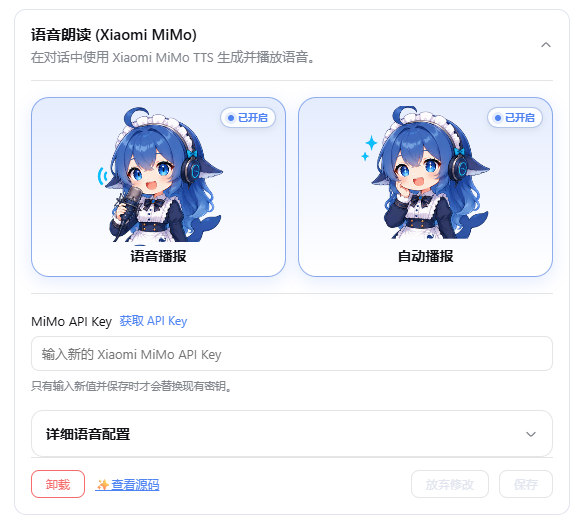
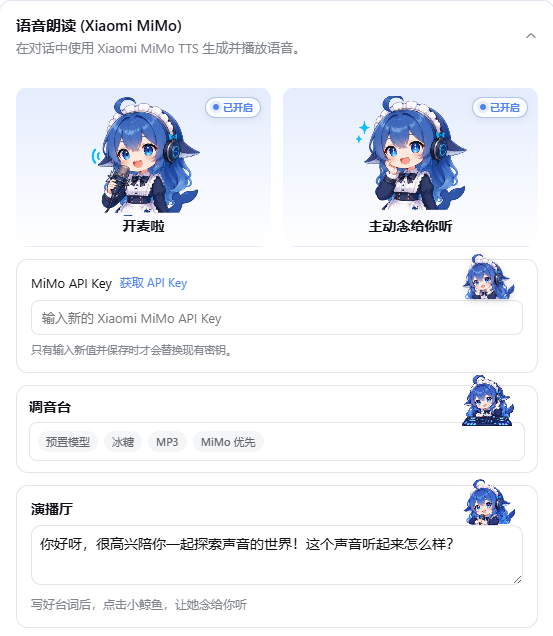
✨ feat: 添加三方插件联动监控console，更新设置页截图

diff --git a/src/index.ts b/src/index.ts
@@ -19,6 +19,8 @@ const USER_AGENT = typeof packageJson.version === 'string'
 const PACKAGE_NAME = 'dsh-xiaomi-tts'
 const WEB_PROFILE_NAME = 'web'
 const NPM_LATEST_URL = 'https://registry.npmjs.org/dsh-xiaomi-tts/latest'
+const STREAM_HOST_LOG = '[MiMoTTS Host]'
+let nextHostStreamRequestId = 1
 
 /** Cordis plugin identifier. */
 export const name = 'xiaomi-mimo-tts'
@@ -786,7 +788,10 @@ export function apply(ctx: Context, config: Config): void {
     kind: 'exact',
     path: TTS_STREAM_ROUTE,
     async handler(req, res) {
+      const requestId = nextHostStreamRequestId++
+      console.info(STREAM_HOST_LOG, `[请求 ${requestId}] 收到流式合成请求`, { method: req.method, path: TTS_STREAM_ROUTE })
       if (req.method !== 'POST') {
+        console.warn(STREAM_HOST_LOG, `[请求 ${requestId}] 拒绝：仅支持 POST`)
         res.setHeader('allow', 'POST')
         json(res, 405, { error: 'method-not-allowed' })
         return
@@ -796,6 +801,7 @@ export function apply(ctx: Context, config: Config): void {
       try {
         body = await readJsonBody(req, MAX_REQUEST_BODY_BYTES) as SynthesizeBody
       } catch (error) {
+        console.error(STREAM_HOST_LOG, `[请求 ${requestId}] 请求体解析失败`, error)
         json(res, error instanceof Error && error.message === 'request-body-too-large' ? 413 : 400, {
           error: error instanceof Error && error.message === 'request-body-too-large'
             ? 'request-body-too-large'
@@ -806,19 +812,31 @@ export function apply(ctx: Context, config: Config): void {
 
       const text = typeof body.text === 'string' ? prepareTtsText(body.text) : ''
       const options = synthesisOptions(current(), body)
+      console.info(STREAM_HOST_LOG, `[请求 ${requestId}] 请求参数已解析`, {
+        text,
+        textLength: text.length,
+        model: upstreamModel(options),
+        voice: options.voice,
+        apiKeyConfigured: options.apiKey.trim().length > 0,
+        requestTimeoutMs: options.requestTimeoutMs,
+      })
       if (text.length === 0) {
+        console.warn(STREAM_HOST_LOG, `[请求 ${requestId}] 拒绝：文本为空`)
         json(res, 400, { error: 'text-required' })
         return
       }
       if (text.length > options.maxTextLength) {
+        console.warn(STREAM_HOST_LOG, `[请求 ${requestId}] 拒绝：文本过长`, { textLength: text.length, maxTextLength: options.maxTextLength })
         json(res, 413, { error: 'text-too-long', maxTextLength: options.maxTextLength })
         return
       }
       if (options.apiKey.trim().length === 0) {
+        console.warn(STREAM_HOST_LOG, `[请求 ${requestId}] 拒绝：API Key 未配置`)
         json(res, 409, { error: 'api-key-not-configured' })
         return
       }
       if (upstreamModel(options) !== 'mimo-v2.5-tts') {
+        console.warn(STREAM_HOST_LOG, `[请求 ${requestId}] 拒绝：模型不支持 PCM 流式播放`, { model: upstreamModel(options) })
         json(res, 409, { error: 'streaming-model-unsupported', message: 'Realtime PCM streaming requires mimo-v2.5-tts.' })
         return
       }
@@ -830,6 +848,7 @@ export function apply(ctx: Context, config: Config): void {
       res.once('close', abortOnDisconnect)
 
       try {
+        console.info(STREAM_HOST_LOG, `[请求 ${requestId}] 正在请求小米 MiMo 上游`)
         const response = await fetch(`${normalizeBaseURL(resolveTtsBaseURL(options.apiKey, options.baseURL))}/chat/completions`, {
           method: 'POST',
           redirect: 'error',
@@ -847,6 +866,7 @@ export function apply(ctx: Context, config: Config): void {
           }),
           signal: controller.signal,
         })
+        console.info(STREAM_HOST_LOG, `[请求 ${requestId}] 收到小米上游响应`, { ok: response.ok, status: response.status, contentType: response.headers.get('content-type') })
 
         if (!response.ok) {
           let parsed: XiaomiAudioResponse | undefined
@@ -855,10 +875,12 @@ export function apply(ctx: Context, config: Config): void {
           } catch {
             parsed = undefined
           }
+          console.error(STREAM_HOST_LOG, `[请求 ${requestId}] 小米上游返回错误`, { status: response.status, message: apiErrorMessage(response.status, parsed) })
           json(res, response.status, { error: 'xiaomi-api-error', message: apiErrorMessage(response.status, parsed) })
           return
         }
         if (response.body === null) {
+          console.error(STREAM_HOST_LOG, `[请求 ${requestId}] 小米上游响应没有 body`)
           json(res, 502, { error: 'invalid-xiaomi-response', message: 'Xiaomi MiMo streaming response had no body.' })
           return
         }
@@ -868,17 +890,27 @@ export function apply(ctx: Context, config: Config): void {
         res.setHeader('cache-control', 'no-store')
         res.setHeader('x-accel-buffering', 'no')
         const reader = response.body.getReader()
+        let forwardedChunks = 0
+        let forwardedBytes = 0
         try {
           while (!res.destroyed) {
             const chunk = await reader.read()
             if (chunk.done) break
+            forwardedChunks += 1
+            forwardedBytes += chunk.value.byteLength
+            console.info(STREAM_HOST_LOG, `[请求 ${requestId}] 转发上游数据块 #${forwardedChunks}`, { bytes: chunk.value.byteLength })
             res.write(chunk.value)
           }
         } finally {
           reader.releaseLock()
+          console.info(STREAM_HOST_LOG, `[请求 ${requestId}] 上游流读取结束`, { responseDestroyed: res.destroyed, forwardedChunks, forwardedBytes })
         }
-        if (!res.destroyed) res.end()
+        if (!res.destroyed) {
+          res.end()
+          console.info(STREAM_HOST_LOG, `[请求 ${requestId}] 已完成浏览器响应`)
+        }
       } catch (error) {
+        console.error(STREAM_HOST_LOG, `[请求 ${requestId}] 流式代理失败`, { aborted: controller.signal.aborted, error })
         if (!res.destroyed) {
           const aborted = controller.signal.aborted
           json(res, aborted ? 504 : 502, {
@@ -890,6 +922,7 @@ export function apply(ctx: Context, config: Config): void {
         clearTimeout(timeout)
         req.off('aborted', abortOnDisconnect)
         res.off('close', abortOnDisconnect)
+        console.info(STREAM_HOST_LOG, `[请求 ${requestId}] 请求清理完成`, { aborted: controller.signal.aborted, responseDestroyed: res.destroyed })
       }
     },
   }), 'xiaomi-mimo-tts: streaming synthesis route')

diff --git a/src/client/pcm-play-service.ts b/src/client/pcm-play-service.ts
@@ -7,6 +7,7 @@ import { streamPcmAudio } from '../pcm-stream.js'
 import { PcmAudioQueue } from './pcm-audio-queue.js'
 
 export class XiaomiMimoTtsPcmService extends Service implements XiaomiMimoTtsService {
+  private readonly logPrefix = '[MiMoTTS Service]'
   private readonly audio = new PcmAudioQueue({
     onBusyChange: () => {},
     onPlaybackStart: () => {},
@@ -21,41 +22,70 @@ export class XiaomiMimoTtsPcmService extends Service implements XiaomiMimoTtsSer
     private readonly interruptConversationPlayback: () => void,
   ) {
     super(ctx, 'xiaomiMimoTts')
+    console.info(this.logPrefix, '[初始化] xiaomiMimoTts 服务已注册')
   }
 
   play(text: string): void {
     try {
-      if (this.disposed || typeof text !== 'string') return
+      console.info(this.logPrefix, '[入口] play() 被调用', { disposed: this.disposed, textType: typeof text, text })
+      if (this.disposed || typeof text !== 'string') {
+        console.warn(this.logPrefix, '[判定] 已跳过：服务已销毁或 text 不是字符串')
+        return
+      }
       const snapshot = this.settings.getSnapshot()
-      if (snapshot.status !== 'ready' || snapshot.value?.enabled !== true) return
+      console.info(this.logPrefix, '[判定] TTS 设置快照', { status: snapshot.status, enabled: snapshot.value?.enabled === true })
+      if (snapshot.status !== 'ready') {
+        console.warn(this.logPrefix, '[判定] 已跳过：设置尚未 ready', { status: snapshot.status })
+        return
+      }
+      if (snapshot.value?.enabled !== true) {
+        console.warn(this.logPrefix, '[判定] 已跳过：MiMo TTS 主开关关闭')
+        return
+      }
       const normalized = prepareTtsText(text).trim()
-      if (normalized.length === 0) return
+      console.info(this.logPrefix, '[文本] 文本清洗完成', { inputLength: text.length, outputLength: normalized.length, normalized })
+      if (normalized.length === 0) {
+        console.warn(this.logPrefix, '[文本] 已跳过：清洗后文本为空')
+        return
+      }
 
       const settings = resolveTtsSettings(snapshot.value)
+      console.info(this.logPrefix, '[准备] 即将停止旧播放并启动新流', { maxPausedPcmBytes: settings.maxPausedPcmBytes })
       this.stop()
       this.interruptConversationPlayback()
+      console.info(this.logPrefix, '[准备] 已请求中断会话朗读')
       this.audio.setMaxPausedPcmBytes(settings.maxPausedPcmBytes)
 
       const generation = this.generation
       const controller = new AbortController()
       this.request = controller
+      let chunkCount = 0
       void streamPcmAudio(normalized, controller.signal, async (pcm) => {
-        if (this.disposed || controller.signal.aborted || generation !== this.generation) return
+        if (this.disposed || controller.signal.aborted || generation !== this.generation) {
+          console.warn(this.logPrefix, '[流] 已忽略过期 PCM 块', { disposed: this.disposed, aborted: controller.signal.aborted, generation, currentGeneration: this.generation })
+          return
+        }
+        chunkCount += 1
+        console.info(this.logPrefix, `[流] 向音频队列提交 PCM 块 #${chunkCount}`, { base64Chars: pcm.length })
         await this.audio.enqueue(pcm)
       }).catch((error: unknown) => {
         if (this.disposed || controller.signal.aborted || generation !== this.generation) return
+        console.error(this.logPrefix, '[失败] 可选流式播放失败', error)
         this.ctx.logger.warn(`xiaomi-mimo-tts: optional PCM playback failed: ${error instanceof Error ? error.message : String(error)}`)
         this.audio.stop()
       }).finally(() => {
+        console.info(this.logPrefix, '[完成] play() 异步链结束', { aborted: controller.signal.aborted, chunkCount, generation, currentGeneration: this.generation })
         if (this.request === controller) this.request = null
       })
     } catch (error) {
+      console.error(this.logPrefix, '[失败] play() 无法启动', error)
       this.ctx.logger.warn(`xiaomi-mimo-tts: optional PCM playback could not start: ${error instanceof Error ? error.message : String(error)}`)
     }
   }
 
   stop(): void {
     try {
+      console.info(this.logPrefix, '[停止] stop() 被调用', { hadRequest: this.request !== null, generation: this.generation })
       this.generation += 1
       this.request?.abort()
       this.request = null
@@ -67,8 +97,10 @@ export class XiaomiMimoTtsPcmService extends Service implements XiaomiMimoTtsSer
 
   async dispose(): Promise<void> {
     if (this.disposed) return
+    console.info(this.logPrefix, '[销毁] 服务开始清理')
     this.disposed = true
     this.stop()
     await this.audio.dispose()
+    console.info(this.logPrefix, '[销毁] 服务清理完成')
   }
 }

diff --git a/src/client/pcm-audio-queue.ts b/src/client/pcm-audio-queue.ts
@@ -4,6 +4,7 @@ export interface PcmAudioQueueCallbacks {
 }
 
 export class PcmAudioQueue {
+  private readonly logPrefix = '[MiMoTTS Audio]'
   private context: AudioContext | null = null
   private scheduledAt = 0
   private readonly sources = new Set<AudioBufferSourceNode>()
@@ -31,12 +32,14 @@ export class PcmAudioQueue {
 
   enqueue(base64: string): Promise<void> {
     const revision = this.revision
+    console.info(this.logPrefix, '[入队] 收到 PCM Base64', { revision, base64Chars: base64.length })
     const run = this.chain.then(() => this.schedule(base64, revision))
     this.chain = run.catch(() => {})
     return run
   }
 
   stop(): void {
+    console.info(this.logPrefix, '[停止] 清空播放队列', { sources: this.sources.size, queuedBytes: this.queuedBytes })
     this.revision += 1
     this.scheduledAt = 0
     this.chain = Promise.resolve()
@@ -62,11 +65,22 @@ export class PcmAudioQueue {
   }
 
   private async schedule(base64: string, revision: number): Promise<void> {
-    if (revision !== this.revision) return
+    if (revision !== this.revision) {
+      console.warn(this.logPrefix, '[调度] 已跳过过期 PCM 块', { chunkRevision: revision, currentRevision: this.revision })
+      return
+    }
     const bytes = Uint8Array.from(atob(base64), (character) => character.charCodeAt(0))
-    if (bytes.byteLength < 2) return
+    if (bytes.byteLength < 2) {
+      console.warn(this.logPrefix, '[解码] 已跳过空 PCM 块', { bytes: bytes.byteLength })
+      return
+    }
     const context = this.getContext()
-    if (context.state !== 'running' && !this.userPaused) await context.resume()
+    console.info(this.logPrefix, '[上下文] 当前 AudioContext 状态', { state: context.state, userPaused: this.userPaused })
+    if (context.state !== 'running' && !this.userPaused) {
+      console.info(this.logPrefix, '[上下文] 尝试 resume()')
+      await context.resume()
+      console.info(this.logPrefix, '[上下文] resume() 已返回', { state: context.state })
+    }
     if (revision !== this.revision) return
 
     const sampleCount = Math.floor(bytes.byteLength / 2)
@@ -80,6 +94,7 @@ export class PcmAudioQueue {
     source.connect(context.destination)
     const startAt = Math.max(context.currentTime + 0.03, this.scheduledAt)
     this.scheduledAt = startAt + buffer.duration
+    console.info(this.logPrefix, '[调度] 准备播放 PCM', { bytes: bytes.byteLength, samples: sampleCount, duration: buffer.duration, currentTime: context.currentTime, startAt, scheduledUntil: this.scheduledAt })
     if (this.userPaused && this.queuedBytes + bytes.byteLength > this.maxPausedPcmBytes) throw new Error('pcm-pause-buffer-limit')
     this.sources.add(source)
     this.sourceBytes.set(source, bytes.byteLength)
@@ -89,10 +104,12 @@ export class PcmAudioQueue {
       this.sources.delete(source)
       this.queuedBytes -= this.sourceBytes.get(source) ?? 0
       this.sourceBytes.delete(source)
+      console.info(this.logPrefix, '[播放] PCM 音频节点已结束', { remainingSources: this.sources.size, queuedBytes: this.queuedBytes })
       if (this.sources.size === 0) this.setBusy(false)
     }, { once: true })
     try {
       source.start(startAt)
+      console.info(this.logPrefix, '[播放] AudioBufferSourceNode.start() 已调用', { startAt })
     } catch (error) {
       this.sources.delete(source)
       this.queuedBytes -= this.sourceBytes.get(source) ?? 0
@@ -110,7 +127,10 @@ export class PcmAudioQueue {
   }
 
   private getContext(): AudioContext {
-    if (this.context === null) this.context = new AudioContext()
+    if (this.context === null) {
+      this.context = new AudioContext()
+      console.info(this.logPrefix, '[上下文] 已创建 AudioContext', { state: this.context.state, sampleRate: this.context.sampleRate })
+    }
     return this.context
   }
 }

diff --git a/src/pcm-stream.ts b/src/pcm-stream.ts
@@ -1,5 +1,8 @@
 import { parseSseRecords, TTS_STREAM_ROUTE } from './shared.js'
 
+const STREAM_LOG = '[MiMoTTS Stream]'
+let nextStreamRequestId = 1
+
 export type PcmChunkConsumer = (pcmBase64: string) => void | Promise<void>
 
 function pcmDeltaFromSse(data: string): string | null {
@@ -16,14 +19,23 @@ function pcmDeltaFromSse(data: string): string | null {
 
 /** Request one preset-model PCM16 stream and deliver each decoded SSE audio payload in order. */
 export async function streamPcmAudio(text: string, signal: AbortSignal, consume: PcmChunkConsumer): Promise<void> {
-  if (signal.aborted) return
+  const requestId = nextStreamRequestId++
+  if (signal.aborted) {
+    console.warn(STREAM_LOG, `[请求 ${requestId}] 发起前已取消`)
+    return
+  }
+  console.info(STREAM_LOG, `[请求 ${requestId}] POST ${TTS_STREAM_ROUTE}`, { text, model: 'mimo-v2.5-tts' })
   const response = await fetch(TTS_STREAM_ROUTE, {
     method: 'POST',
     headers: { 'content-type': 'application/json' },
     body: JSON.stringify({ text, model: 'mimo-v2.5-tts' }),
     signal,
   })
-  if (signal.aborted) return
+  console.info(STREAM_LOG, `[请求 ${requestId}] 收到 HTTP 响应`, { ok: response.ok, status: response.status, contentType: response.headers.get('content-type') })
+  if (signal.aborted) {
+    console.warn(STREAM_LOG, `[请求 ${requestId}] 收到响应后已取消`)
+    return
+  }
   if (!response.ok) throw new Error(`stream-request-${response.status}`)
   if (response.body === null) throw new Error('stream-response-empty')
 
@@ -31,11 +43,16 @@ export async function streamPcmAudio(text: string, signal: AbortSignal, consume:
   const decoder = new TextDecoder()
   let pending = ''
   let receivedPcm = false
+  let pcmChunks = 0
+  let pcmBase64Chars = 0
   const consumeEvents = async (events: string[]): Promise<void> => {
     for (const event of events) {
       if (signal.aborted) return
       const pcm = pcmDeltaFromSse(event)
       if (pcm === null) continue
+      pcmChunks += 1
+      pcmBase64Chars += pcm.length
+      console.info(STREAM_LOG, `[请求 ${requestId}] 收到 PCM 块 #${pcmChunks}`, { base64Chars: pcm.length })
       await consume(pcm)
       receivedPcm = true
     }
@@ -56,7 +73,9 @@ export async function streamPcmAudio(text: string, signal: AbortSignal, consume:
     }
   } finally {
     reader.releaseLock()
+    console.info(STREAM_LOG, `[请求 ${requestId}] 响应流读取结束`, { aborted: signal.aborted, pcmChunks, pcmBase64Chars })
   }
 
   if (!signal.aborted && !receivedPcm) throw new Error('stream-audio-empty')
+  if (!signal.aborted) console.info(STREAM_LOG, `[请求 ${requestId}] 流式合成完成`, { pcmChunks, pcmBase64Chars })
 }
